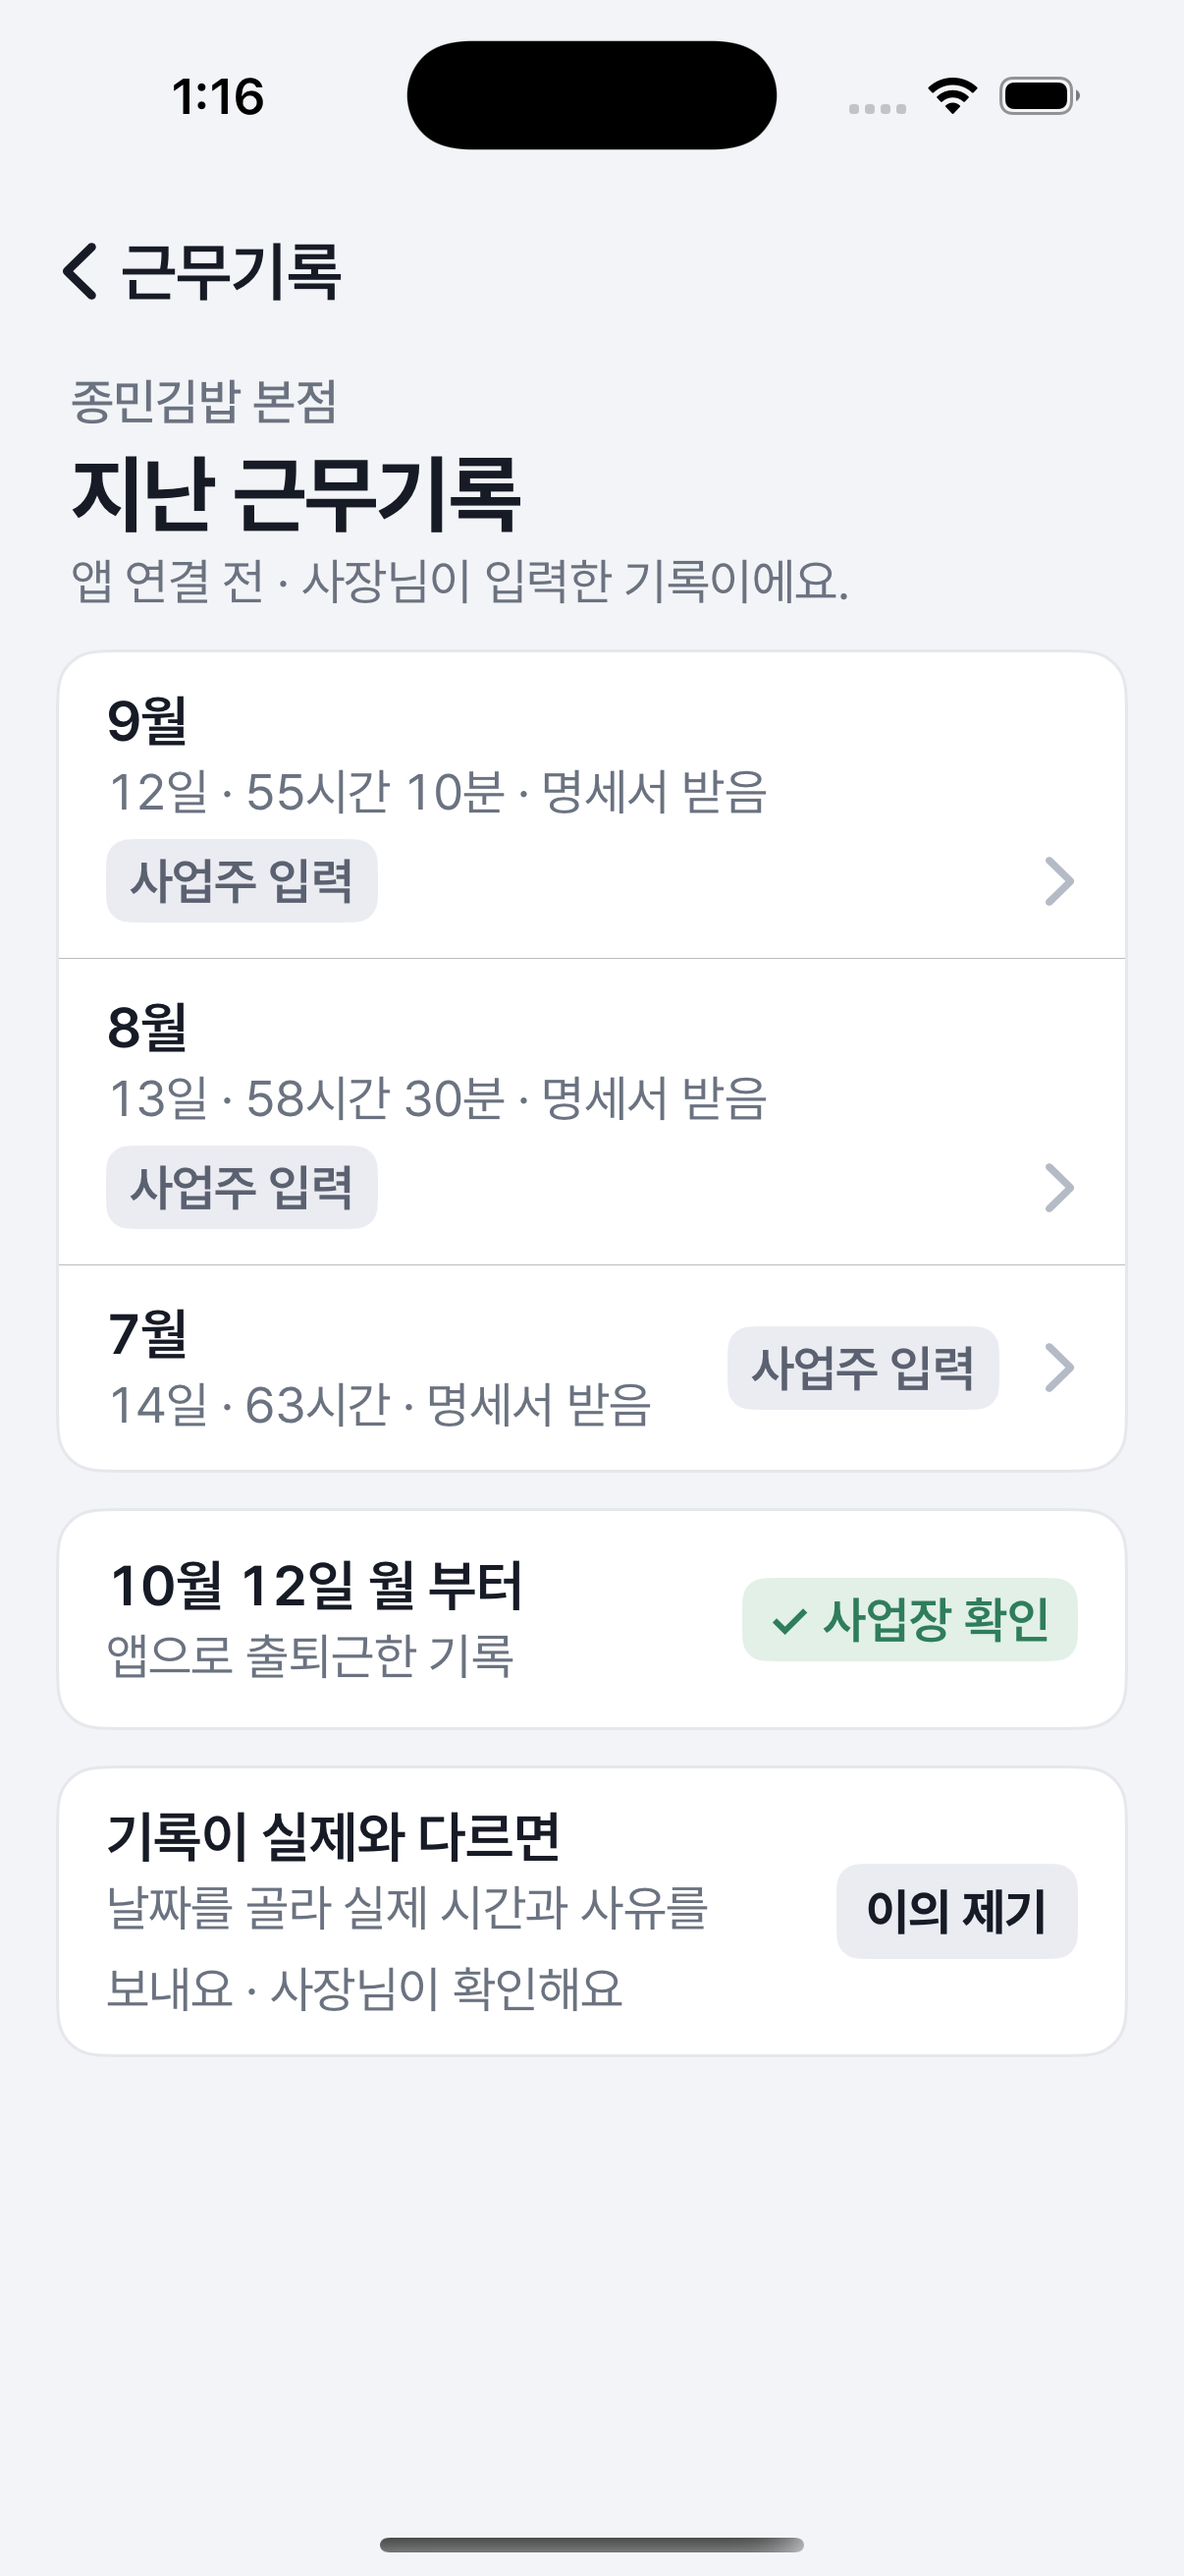
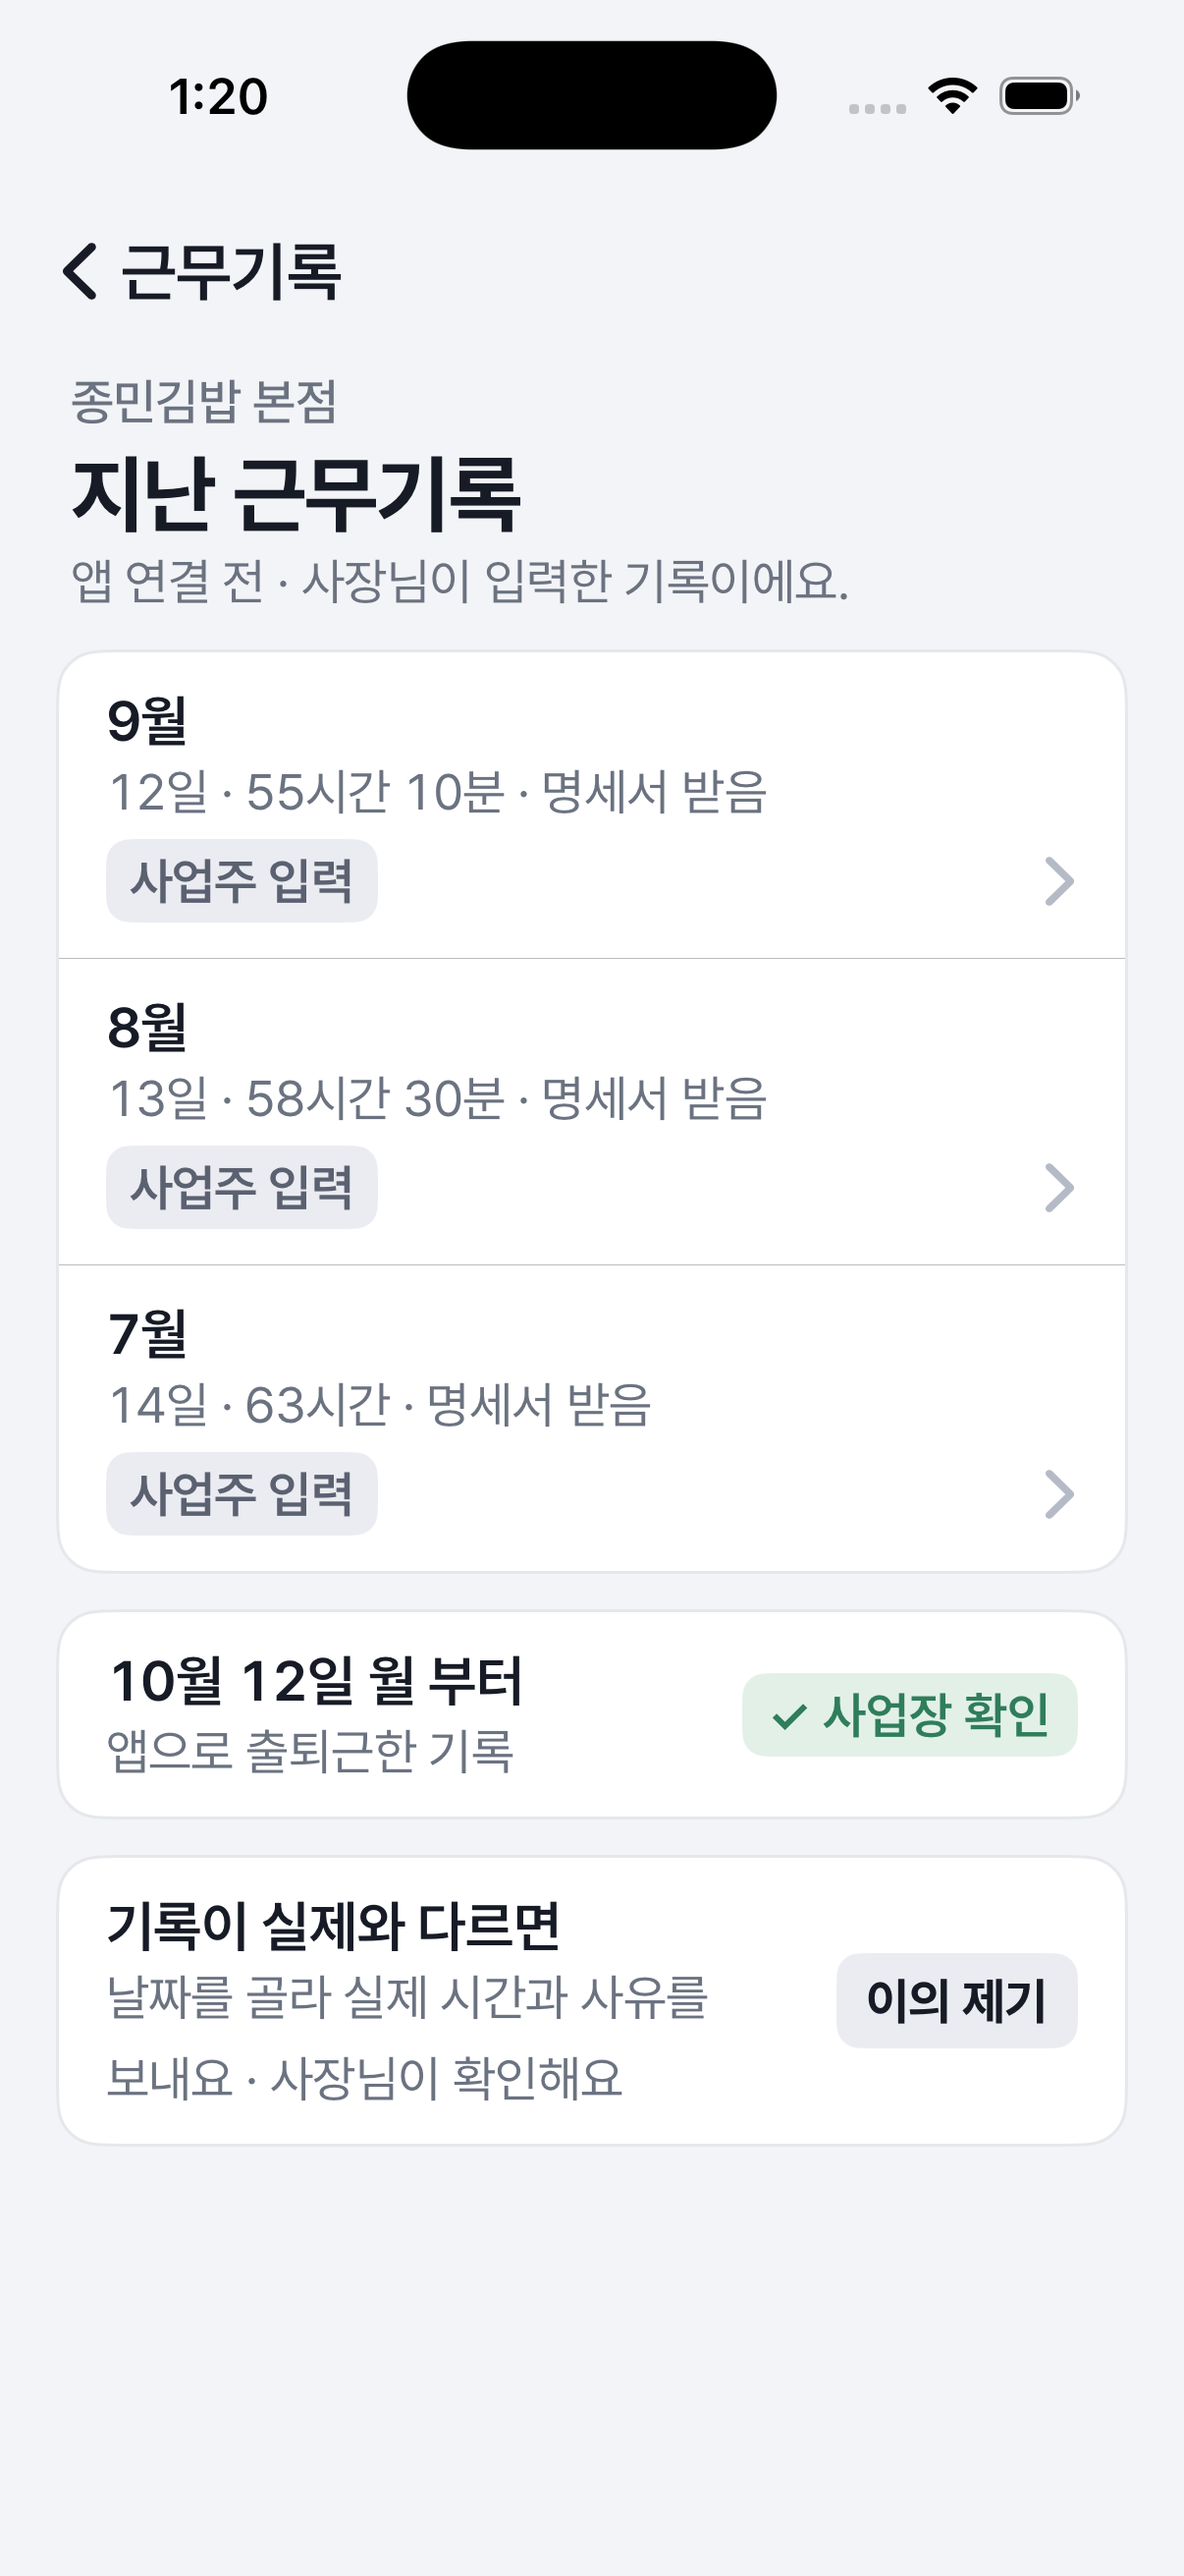
fix(attendance): 20l QA 반영 — 큰 글자 월 행 배치 통일 · 앱 기록 카드 여백 12
- 행마다 ViewThatFits로 판정하던 것을 글자 크기 하나로 카드 전체를 같이 바꾸게
- 「10월 12일 부터」 카드 위아래 여백 14 → 원문 12
- 쓰이지 않던 읽기 문구 정리

Refs #422 · UI-IOS-20l

diff --git a/Pum/Pum/Features/Attendance/InheritedRecords/InheritedRecordsView.swift b/Pum/Pum/Features/Attendance/InheritedRecords/InheritedRecordsView.swift
@@ -80,15 +80,19 @@ struct InheritedRecordsView: View {
 
     private func monthRow(_ month: InheritedMonth) -> some View {
         Button { onOpenMonth(month.id) } label: {
-            ViewThatFits(in: .horizontal) {
-                HStack(spacing: PumTokens.Space.s12) {
-                    texts(title: month.title, detail: month.detail)
-                    ownerBadge
-                    chevron
-                }
-                VStack(alignment: .leading, spacing: PumTokens.Space.s6) {
-                    texts(title: month.title, detail: month.detail)
-                    HStack(spacing: PumTokens.Space.s12) { ownerBadge; Spacer(minLength: 0); chevron }
+            // 행마다 따로 판정하면 큰 글자에서 행 모양이 섞인다 — 글자 크기 하나로 카드 전체를 같이 바꾼다
+            Group {
+                if typeSize >= .xxxLarge {
+                    VStack(alignment: .leading, spacing: PumTokens.Space.s6) {
+                        texts(title: month.title, detail: month.detail)
+                        HStack(spacing: PumTokens.Space.s12) { ownerBadge; Spacer(minLength: 0); chevron }
+                    }
+                } else {
+                    HStack(spacing: PumTokens.Space.s12) {
+                        texts(title: month.title, detail: month.detail)
+                        ownerBadge.fixedSize()
+                        chevron
+                    }
                 }
             }
             .padding(.horizontal, PumTokens.Size.rowPadX)
@@ -116,7 +120,7 @@ struct InheritedRecordsView: View {
                     }
                 }
                 .padding(.horizontal, PumTokens.Size.rowPadX)
-                .padding(.vertical, PumTokens.Space.s14)
+                .padding(.vertical, PumTokens.Space.s12) // 원문 padding 12 16
                 .frame(maxWidth: .infinity, minHeight: PumTokens.Size.tapMin, alignment: .leading)
                 .contentShape(Rectangle())
             }

diff --git a/Pum/PumTests/Features/Attendance/InheritedRecordsTests.swift b/Pum/PumTests/Features/Attendance/InheritedRecordsTests.swift
@@ -32,6 +32,5 @@ struct InheritedRecordsTests {
         let s = InheritedRecordsState.sample
         #expect(s.months[0].readout == "9월, 12일 · 55시간 10분 · 명세서 받음, 사업주 입력")
         #expect(s.appRecordsReadout == "10월 12일 월 부터, 앱으로 출퇴근한 기록, 사업장 확인")
-        #expect(s.disputeReadout == "기록이 실제와 다르면, 날짜를 골라 실제 시간과 사유를 보내요 · 사장님이 확인해요, 이의 제기")
     }
 }

diff --git a/Pum/Pum/Features/Attendance/InheritedRecords/InheritedRecordsState.swift b/Pum/Pum/Features/Attendance/InheritedRecords/InheritedRecordsState.swift
@@ -36,7 +36,6 @@ nonisolated struct InheritedRecordsState: Equatable, Sendable {
 
     /// 「10월 12일 월 부터, 앱으로 출퇴근한 기록, 사업장 확인」
     var appRecordsReadout: String { "\(appRecordsTitle), \(Self.appRecordsDetail), 사업장 확인" }
-    var disputeReadout: String { "\(Self.disputeTitle), \(Self.disputeDetail), \(Self.disputeButton)" }
 
     static let sample = InheritedRecordsState(
         workplaceName: "종민김밥 본점",
